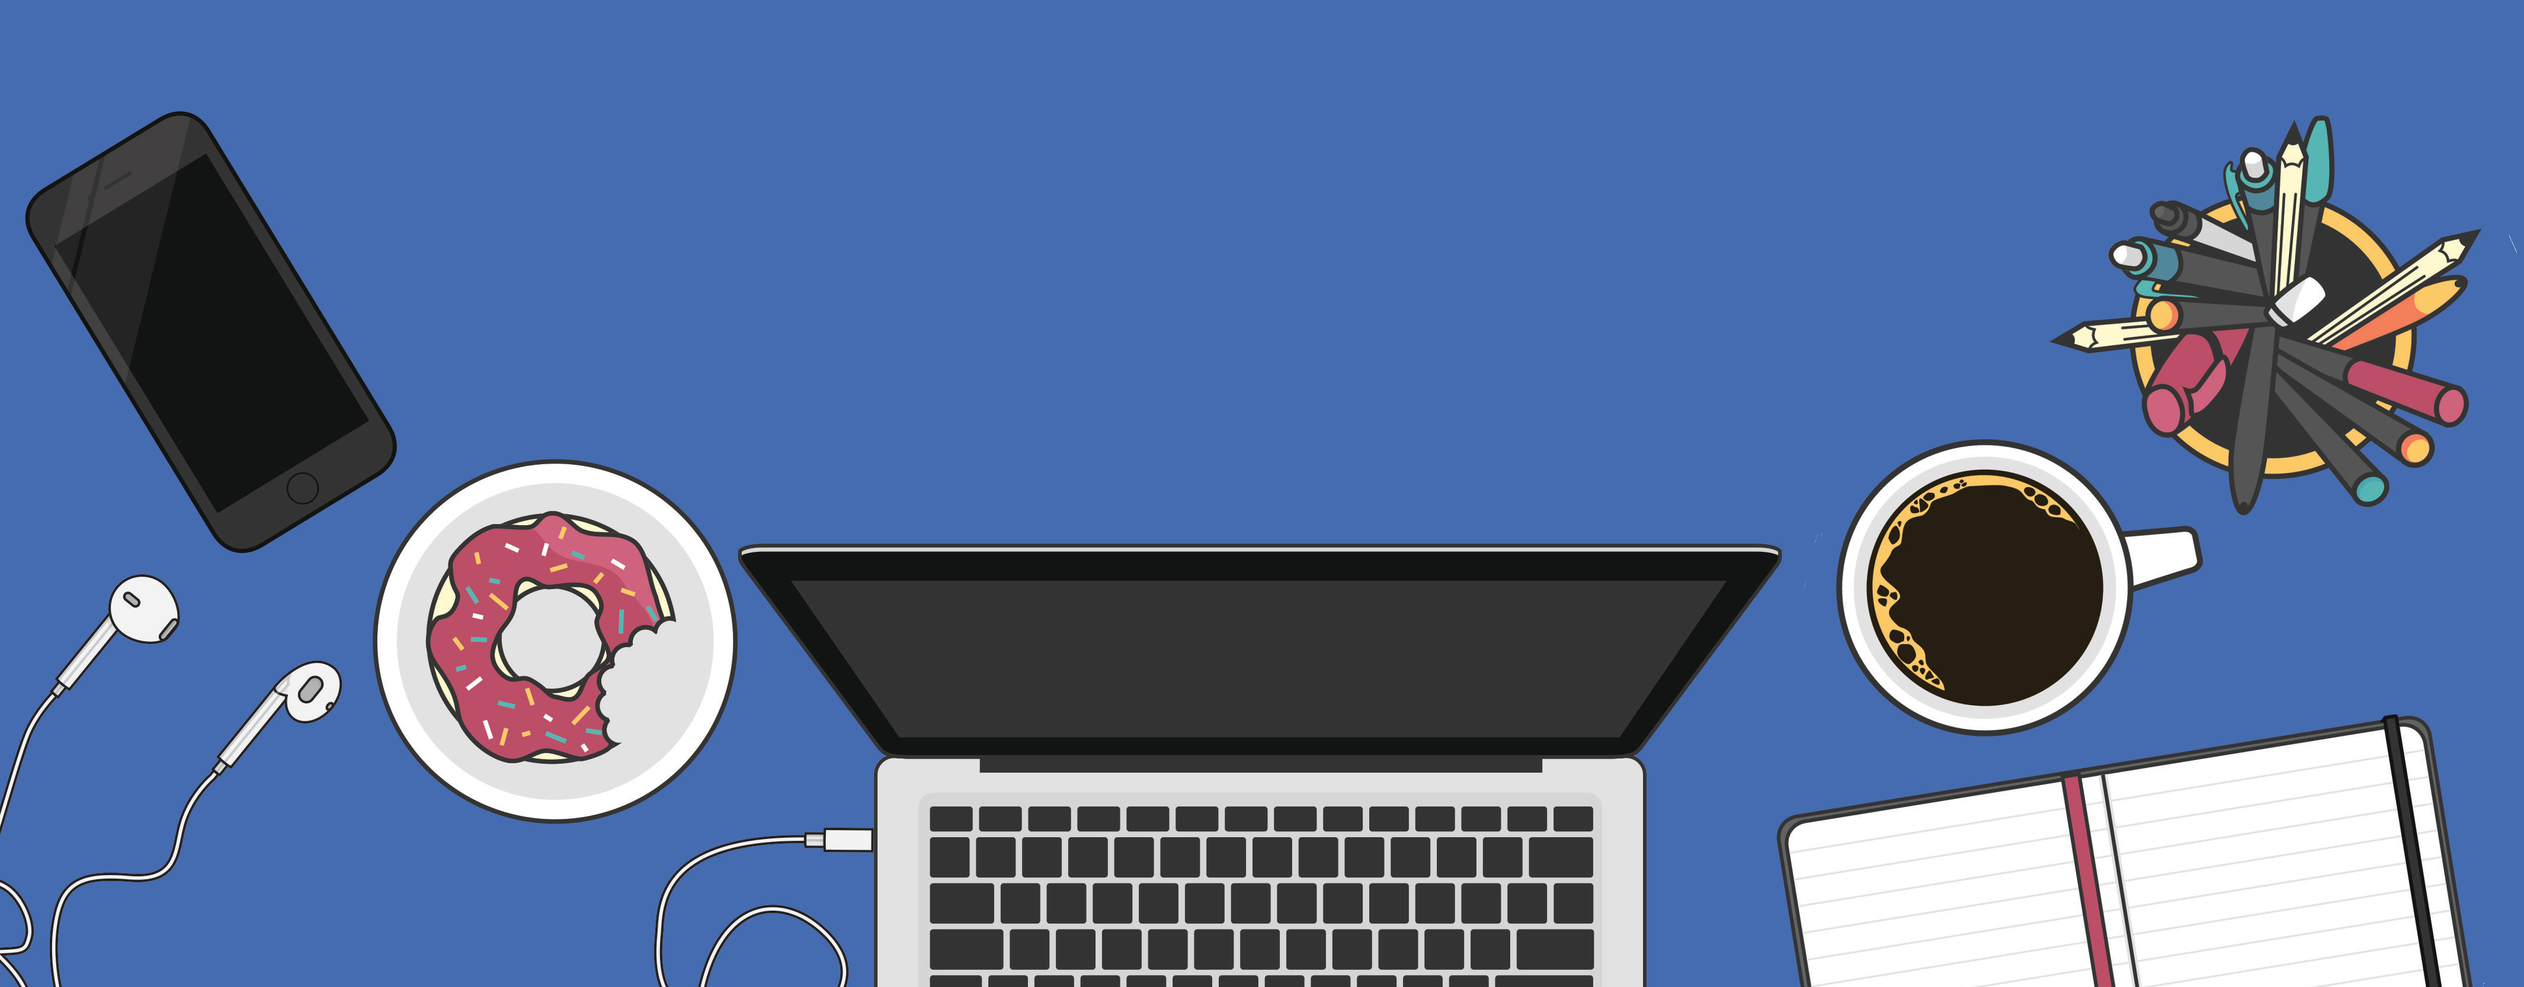
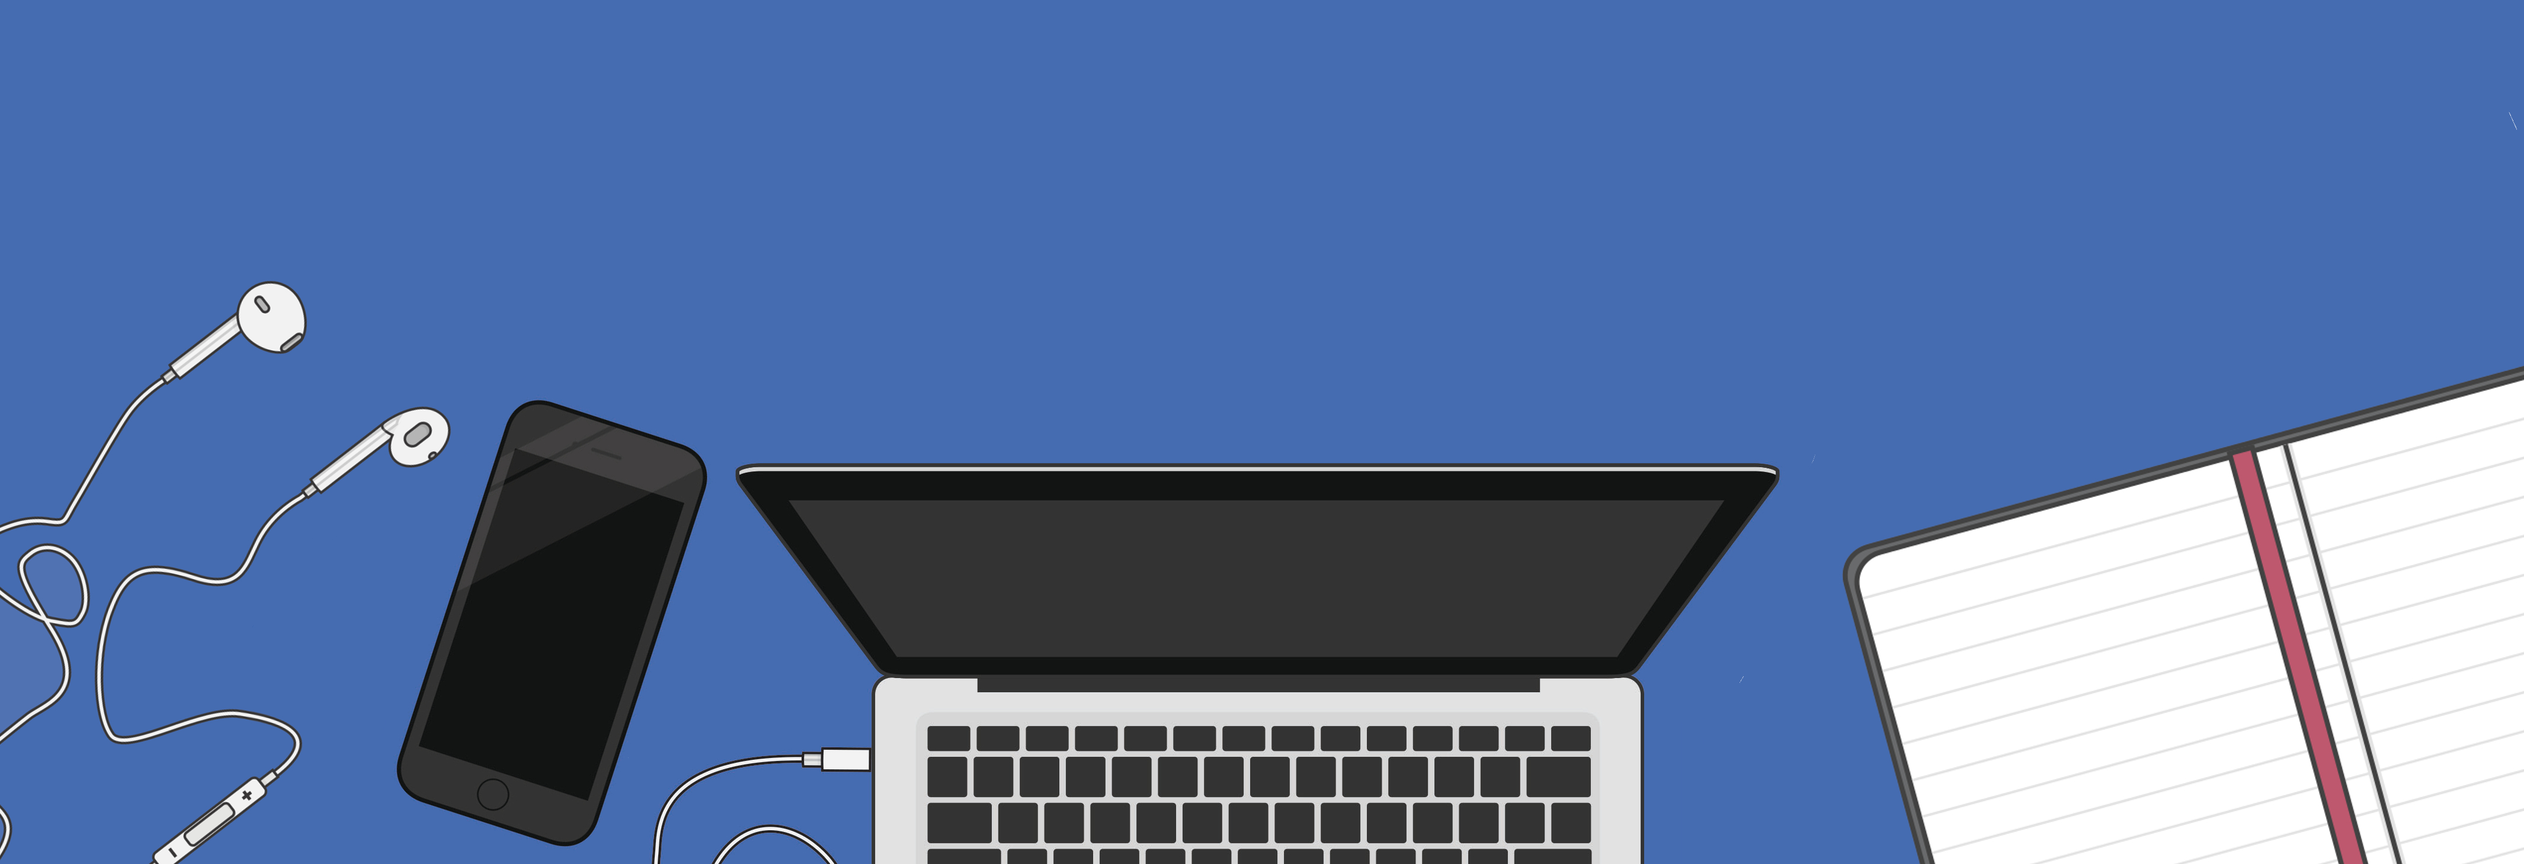
Finalize Profile Layout, added Venn Diagram, Removed Header Image
Cleaned up the profile layout, added the venn diagram + cleaned up
the 'featured' section. Moved the 'Discover our Storytellers' section
to the top (separated the disclaimer section & storytellers section
into two includes files). Removed the header image and replaced it
with the main logo (too cluttered)

Changed region(s): [[0.0, 0.0925, 1.0, 1.0], [0.0, 0.8944, 0.0312, 1.0], [0.6556, 0.7094, 0.6869, 0.7402]]

diff --git a/nominate.html b/nominate.html
@@ -1,69 +1,5 @@
 ---
 title: Nominate and Contribute
-layout: default
+layout: no-sidebar-post
 ---
-    <body class="left-sidebar">
-        <!-- Main -->
-            <div id="main-wrapper">
-                <div class="container">
-                    <div class="row">
-                        {% include sidebar.html %}
-                        <div class="8u skel-cell-important">
-
-                            <!-- Content -->
-                                <article class="box post">
-                                    <a href="#" class="image featured"><img src="{{ site.baseurl }}/assets/images/pic01.jpg" alt="" /></a>
-                                    <header>
-                                        <h2>Left Sidebar</h2>
-                                        <p>Lorem ipsum dolor sit amet feugiat</p>
-                                    </header>
-                                    <p>
-                                        Vestibulum scelerisque ultricies libero id hendrerit. Vivamus malesuada quam faucibus ante dignissim auctor
-                                        hendrerit libero placerat. Nulla facilisi. Proin aliquam felis non arcu molestie at accumsan turpis commodo.
-                                        Proin elementum, nibh non egestas sodales, augue quam aliquet est, id egestas diam justo adipiscing ante.
-                                        Pellentesque tempus nulla non urna eleifend ut ultrices nisi faucibus.
-                                    </p>
-                                    <p>
-                                        Praesent a dolor leo. Duis in felis in tortor lobortis volutpat et pretium tellus. Vestibulum ac ante nisl,
-                                        a elementum odio. Duis semper risus et lectus commodo fringilla. Maecenas sagittis convallis justo vel mattis.
-                                        placerat, nunc diam iaculis massa, et aliquet nibh leo non nisl vitae porta lobortis, enim neque fringilla nunc,
-                                        eget faucibus lacus sem quis nunc suspendisse nec lectus sit amet augue rutrum vulputate ut ut mi. Aenean
-                                        elementum, mi sit amet porttitor lorem ipsum dolor sit amet, consectetur adipiscing elit. Lorem ipsum dolor
-                                        sit amet nullam consequat feugiat dolore tempus.
-                                    </p>
-                                    <section>
-                                        <header>
-                                            <h3>Something else</h3>
-                                        </header>
-                                        <p>
-                                            Elementum odio duis semper risus et lectus commodo fringilla. Maecenas sagittis convallis justo vel mattis.
-                                            placerat, nunc diam iaculis massa, et aliquet nibh leo non nisl vitae porta lobortis, enim neque fringilla nunc,
-                                            eget faucibus lacus sem quis nunc suspendisse nec lectus sit amet augue rutrum vulputate ut ut mi. Aenean
-                                            elementum, mi sit amet porttitor lorem ipsum dolor sit amet, consectetur adipiscing elit. Lorem ipsum dolor
-                                            sit amet nullam consequat feugiat dolore tempus.
-                                        </p>
-                                        <p>
-                                            Nunc diam iaculis massa, et aliquet nibh leo non nisl vitae porta lobortis, enim neque fringilla nunc,
-                                            eget faucibus lacus sem quis nunc suspendisse nec lectus sit amet augue rutrum vulputate ut ut mi. Aenean
-                                            elementum, mi sit amet porttitor lorem ipsum dolor sit amet, consectetur adipiscing elit. Lorem ipsum dolor
-                                            sit amet nullam consequat feugiat dolore tempus.
-                                        </p>
-                                    </section>
-                                    <section>
-                                        <header>
-                                            <h3>So in conclusion ...</h3>
-                                        </header>
-                                        <p>
-                                            Nunc diam iaculis massa, et aliquet nibh leo non nisl vitae porta lobortis, enim neque fringilla nunc,
-                                            eget faucibus lacus sem quis nunc suspendisse nec lectus sit amet augue rutrum vulputate ut ut mi. Aenean
-                                            elementum, mi sit amet porttitor lorem ipsum dolor sit amet, consectetur adipiscing elit. Lorem ipsum dolor
-                                            sit amet nullam consequat feugiat dolore tempus. Elementum odio duis semper risus et lectus commodo fringilla.
-                                            Maecenas sagittis convallis justo vel mattis.
-                                        </p>
-                                    </section>
-                                </article>
-
-                        </div>
-                    </div>
-                </div>
-            </div>
+<iframe src="https://docs.google.com/forms/d/1PmeKWXg-QYZrC2-i5xXgRcDmMBKwTczdV4jSDzKyQPM/viewform?embedded=true" width="1150" height="500" frameborder="0" marginheight="0" marginwidth="0">Loading...</iframe>

diff --git a/_layouts/profile2.html b/_layouts/profile2.html
@@ -4,31 +4,16 @@
     <!-- Main -->
     <div id="main-wrapper">
       <div class="container">
-<!--             <article class="box post">
-              <a href="#" class="image featured"><img src="{{ site.baseurl }}{{ page.featured }}" alt="" /></a>
-              <header>
-                <h2>{{ page.title }}</h2>
-                <p>Posted {{ page.date | date_to_string }}</p>
-              </header>
-              <section>
-                {{ page.podcast }}
-              </section>
-            </article>
- -->
-
           <!-- Content -->
         <div class="row">
           <div class="5u -1u">
             <a href="#" class="image featured"><img src="{{ site.baseurl }}{{ page.featured }}" alt="" /></a>
-<!--               <section>
-                {{ page.podcast }}
-              </section>
- -->          </div>
+          </div>
           <div class="5u">
             <article class="box post">
               <h3 style="text-align:center">Meet</h3>
               <h2 id="profile-title">{{ page.title }}</h2>
-              <p style="padding:3em; text-align:center">I’m Aditi Rajagopal. I’m that short girl with the occasional soap box, and the diehard Michigan fan. I always have a side project or two and a couple of tricks up my sleeve.</p>
+              <p style="padding:3em; text-align:center"> {{ page.aboutme }} </p>
             </article>
 
           </div>
@@ -45,15 +30,15 @@
                 <h2>Fast Facts</h2>
               </header>
               <section>
-                  <p class="profile-text"><b>Years in the Field:</b> 2</p>
+                  <p class="profile-text"><b>Years in the Field:</b> {{ page.yearsinfield }} </p>
                   <hr class="fastfacts">
-                  <p class="profile-text"><b>Current Role:</b> Software Engineer, IBM</p>
+                  <p class="profile-text"><b>Current Role:</b> {{ page.role }} </p>
                   <hr class="fastfacts">
-                  <p class="profile-text"><b>Alma Mater:</b> University of Michigan</p>
+                  <p class="profile-text"><b>Alma Mater:</b> {{ page.almamater }} </p>
                   <hr class="fastfacts">
                   <p class="profile-text"><b>Interview Date:</b> {{ page.date | date_to_string }}</p>
                   <hr class="fastfacts">
-                  <p class="profile-text"><b>Personal Links:</b> @aditi_rajagopal, aditirajagopal.com</p>
+                  <p class="profile-text"><b>Personal Links:</b>  {{ page.links }} </p>
               </section>
             </article>
           </div>
@@ -62,4 +47,5 @@
     </div>
 
 </div>
+{% include storytellers.html %}
 {% include footer.html %}

diff --git a/_includes/featured.html b/_includes/featured.html
@@ -1,20 +1,24 @@
-                    <div class="row" style="background-color:#fff">
-                        <div class="6u skel-cell-important">
+<div class="right-sidebar" style="background:url('https://c1.staticflickr.com/3/2906/14535886776_0309ecc847_b.jpg')">
+  <div class="row">
+    <div class="6u skel-cell-important">
 
-                            <img src="/assets/images/venn_diagram.jpg">
+      <article class="box post" style="margin:4em">
+        <p>Knowingly and unknowingly we are always seeking inspiration...<br><br>
+        <b>Lists</b> are.....<br><br>
+        <b>“Plot Twists”</b> are the rule of nature and weaving these twists into the fabric of life is a narrative that makes ordinary people "extraordinary".<br><br>
+        This blog and podcast is our attempt to showcase and offer more than just a glimpse into the lives of these ordinary yet extraordinary people. </p>
+        <footer>
+          {% for post in site.posts offset: 0 limit: 1 %}
+          <a href="{{ site.baseurl }}{{ post.url }}" class="button alt">Check out Our Recent Post</a>
+          {% endfor %}
+        </footer>
+      </article>
 
+    </div>
+    <div class="4u skel-cell-important">
 
-                        </div>
-                        <div class="6u skel-cell-important">
+      <img src="/assets/images/LPVertical.png" style="height:35em; opacity:0.90; margin:2em">
 
-                                <article class="box post">
-                                    <p>Knowingly and unknowingly we are always trying to bring order to our lives by making <b>"Lists"</b>, but we forget that <b>"Plot Twists" </b> are the rule of nature!!<br><br> 
-                                    Weaving these twists into fabric of life while managing the ever growing lists is the narrative that forms central identity of women in this <b>“Blog and Podcast series”</b> <br><br>
-                                    This is our attempt to offer more than just a glimpse into lives of these ordinary yet extraordinary women, who manage the orderly and disorderly stories of thier lives on both personal and professional fronts. </p>
-                                    <footer>
-                                        <a href="{{ site.baseurl }}{{ post.url }}" class="button alt">Check out Our Recent Post</a>
-                                    </footer>
-                                </article>
-
-                        </div>
-                    </div>
+    </div>
+  </div>
+</div>

diff --git a/_includes/nav.html b/_includes/nav.html
@@ -3,25 +3,25 @@
 <div id="header-wrapper">
   <div id="header">
     <div id="logo">
-          <h1><a href="{{ site.baseurl }}/index.html">{{ site.name }}</a></h1>
+        <img src="{{ site.baseurl}}/assets/images/LPFavorite.png" alt="Lists and Plot Twists - Orderly and Disorderly Life Stories">
+<!--           <h1><a href="{{ site.baseurl }}/index.html">{{ site.name }}</a></h1>
           <h4>{{ site.description }}</h4><br>
-    </div>
+ -->    </div>
     <nav id="nav" style="display:inline"> 
       <ul class="nav">
           {% assign current = page.url | downcase | split: '/' %}
           <li {% if current[1] == '{{ site.baseurl }}/index.html' %}class='current'{% endif %}><a href="{{ site.baseurl }}/index.html">Home</a></li>
           <li {% if current[1] == '{{ site.baseurl }}/about.html' %}class='current'{% endif %}><a href="{{ site.baseurl }}/about.html">About</a></li>
           <li {% if current[1] == '{{ site.baseurl }}/series.html' %}class='current'{% endif %}><a href="{{ site.baseurl }}/series.html">Series</a></li>
-          <li {% if current[1] == '{{ site.baseurl }}/nominate.html' %}class='current'{% endif %}><a href="{{ site.baseurl }}/nominate.html">Nominate</a></li>
-          <li {% if current[1] == '{{ site.baseurl }}/contact.html' %}class='current'{% endif %}>
-            <a href="{{ site.baseurl }}/contact.html">Contact</a>
-            <ul class="subnav">
+          <li {% if current[1] == '{{ site.baseurl }}/nominate.html' %}class='current'{% endif %}>
+            <a href="{{ site.baseurl }}/nominate.html">Nominate/Contact</a>
+<!--             <ul class="subnav">
               <li><a class="icon fa-facebook" href="#"><span class="label">Facebook</span></a></li>
               <li><a class="icon fa-twitter" href="#"><span class="label">Twitter</span></a></li>
               <li><a class="icon fa-instagram" href="#"><span class="label">Instagram</span></a></li>
               <li><a class="icon fa-soundcloud" href="#"><span class="label">Soundcloud</span></a></li>
             </ul>
-          </li>
+ -->          </li>
     </nav>
   </div>
 </div>

diff --git a/_layouts/about_layout.html b/_layouts/about_layout.html
@@ -1,0 +1,41 @@
+{% include header.html %}
+{% include header_landing.html %}
+<body class="right-sidebar">
+  <!-- Main -->
+  <div id="main-wrapper">
+    <div class="container">
+        <div class="row">
+            <div class="8u">
+
+                <!-- Content -->
+                    <article class="box post">
+                        <a href="#" class="image featured"><img src="{{ site.baseurl }}{{ page.featured }}" alt="" /></a>
+                        <header>
+                            <h2>About</h2>
+                        <section>
+                            {{ page.content }}
+                        </section>
+                    </article>
+
+            </div>
+            <div class="4u">
+            <!-- Sidebar -->
+              <section class="box">
+                <a href="#" class="image featured"><img src="{{ site.baseurl }}/assets/images/aparna.png" alt="" /></a>
+                <header>
+                  <h3>Aparna Prabhakar</h3>
+                </header>
+              </section>
+              <section class="box">
+                <a href="#" class="image featured"><img src="{{ site.baseurl }}/assets/images/aditi.png" alt="" /></a>
+                <header>
+                  <h3>Aditi Rajagopal</h3>
+                </header>
+              </section>
+
+          </div>
+        </div>
+    </div>
+  </div>
+{% include storytellers.html %}
+{% include footer.html %}

diff --git a/about.html b/about.html
@@ -1,12 +1,16 @@
 ---
 title: About
-featured: /assets/images/rebel.png
-layout: right-sidebar-post
+layout: about_layout
 categories: rookie
 excerpt: "Integer volutpat ante et accumsan commophasellus sed aliquam feugiat lorem aliquet ut enim rutrum phasellus iaculis accumsan dolore magna aliquam veroeros."
 tags: []
 date: 2015-07-16T15:39:55-04:00
 ---
+<br>
+<p>Welcome to Lists and Plot Twists, a blog and podcast featuring the orderly and disorderly stories of life. As professionals we often come across women whose personal and professional stories, experiences and narratives leave us wanting to know more. </p>
 
-Welcome to Lists and Plot Twists, a blog and podcast featuring the orderly and
-disorderly stories of life. My name is Aditi Rajagopal. 
+<p>We wanted to create a broad collection of narratives that strike a chord, resonate and make us ponder. </p>
+
+<p>This blog and podcast is a platform to show “the extraordinary in the ordinary”- from all walks of life, across the globe. This is an narrative, in an interview format,  focused on women who inspire through their life stories, lists and plot twists. </p>
+
+<h1>- Aditi Rajagopal and Aparna Prabhakar</h1>

diff --git a/_includes/footer.html b/_includes/footer.html
@@ -1,22 +1,4 @@
 	<!-- Footer -->
-		<div id="footer-wrapper">
-			<section id="footer" class="container">
-				<div class="row">
-					<div class="12u">
-						<h2>Discover our Story Tellers</h2>
-						<nav id="nav">
-							<ul class="links">
-								<li><a href="{{ site.baseurl }}/storytellers/rookie.html">Rookie</a></li>
-								<li><a href="{{ site.baseurl }}/storytellers/explorer.html">Explorer</a></li>
-								<li><a href="{{ site.baseurl }}/storytellers/creator.html">Creator</a></li>
-								<li><a href="{{ site.baseurl }}/storytellers/nurturer.html">Nurturer</a></li>
-								<li><a href="{{ site.baseurl }}/storytellers/rebel.html">Rebel</a></li>
-							</ul>
-						</nav>
-					</div>
-				</div>
-			</section>
-		</div>
 		<div id="copyright">
 			Disclaimer: The opinions expressed on this website belong to individuals interviewed, and are not representative of their affiliations.
 		</div>

diff --git a/_includes/storytellers.html b/_includes/storytellers.html
@@ -1,0 +1,18 @@
+<div id="footer-wrapper">
+  <section id="footer" class="container">
+    <div class="row">
+      <div class="12u">
+        <h2>Discover our Story Tellers</h2>
+          <nav id="nav">
+          <ul class="links">
+            <li><a href="{{ site.baseurl }}/storytellers/rookie.html">Rookie</a></li>
+            <li><a href="{{ site.baseurl }}/storytellers/explorer.html">Explorer</a></li>
+            <li><a href="{{ site.baseurl }}/storytellers/creator.html">Creator</a></li>
+            <li><a href="{{ site.baseurl }}/storytellers/nurturer.html">Nurturer</a></li>
+            <li><a href="{{ site.baseurl }}/storytellers/rebel.html">Rebel</a></li>
+            </ul>
+          </nav>
+      </div>
+    </div>
+  </section>
+</div>

diff --git a/assets/css/style.css b/assets/css/style.css
@@ -762,12 +762,12 @@
 
 #banner
 	{
-		background: #CCE8F4 url('../images/header.png');
-/*		background-position: center center;
-*/		background-size: cover;
+/*		background: #CCE8F4 url('../images/header.png');
+		background-position: center center;
+		background-size: cover;
 		background-repeat: no-repeat;
 		text-align: center;
-	}
+*/	}
 
 		#banner header
 		{
@@ -802,8 +802,9 @@
 
 	#header-wrapper
 	{
-		background: #CCE8F4 url('../images/header.jpg');
-		background-position: center center;
+		background: #456CB1;
+/*		url('../images/header.jpg');
+*/		background-position: center center;
 		background-size: cover;
 /*		
 		height: 0;

diff --git a/assets/css/style-desktop.css b/assets/css/style-desktop.css
@@ -120,7 +120,7 @@ ul.social{
 /*********************************************************************************/
 
 #header-wrapper{
-	padding: 16em 0 16em 0;
+	padding: 11.5em 0 1em 0;
 }
 
 #main-wrapper{
@@ -144,7 +144,7 @@ ul.social{
 /*********************************************************************************/
 
 #header{
-  margin-top: -12em;
+  margin-top: -10em;
 	text-align: center;
 }
 
@@ -189,6 +189,9 @@ ul.social{
   color:#8D9CB7;
 }
 
+#logo img {
+	height: 12em;
+}
 #nav{
 }
 

diff --git a/_layouts/no-sidebar-post.html b/_layouts/no-sidebar-post.html
@@ -7,11 +7,6 @@
 
 					<!-- Content -->
 						<article class="box post">
-							<a href="#" class="image featured"><img src="{{ site.baseurl }}{{ page.featured }}" alt="" /></a>
-							<header>
-								<h2>{{ page.title }}</h2>
-								<p>Posted {{ page.date | date_to_string }}</p>
-							</header>
 							<section>
 								{{ page.content }}
 							</section>
@@ -19,4 +14,5 @@
 
 				</div>
 			</div>
+{% include storytellers.html %}
 {% include footer.html %}

diff --git a/index.html b/index.html
@@ -9,8 +9,10 @@ layout: landing
 				<div class="container">
 					<!-- Content -->
 					{% include featured.html %}
-					{% include recent_posts.html %}
-          {% include recent_podcasts.html %}
+          {% include storytellers.html %}
+          <br><br>
+          {% include recent_posts.html %}
           {% include recommended_reading.html %}
+          {% include footer.html %}
         </div>
       </div>
